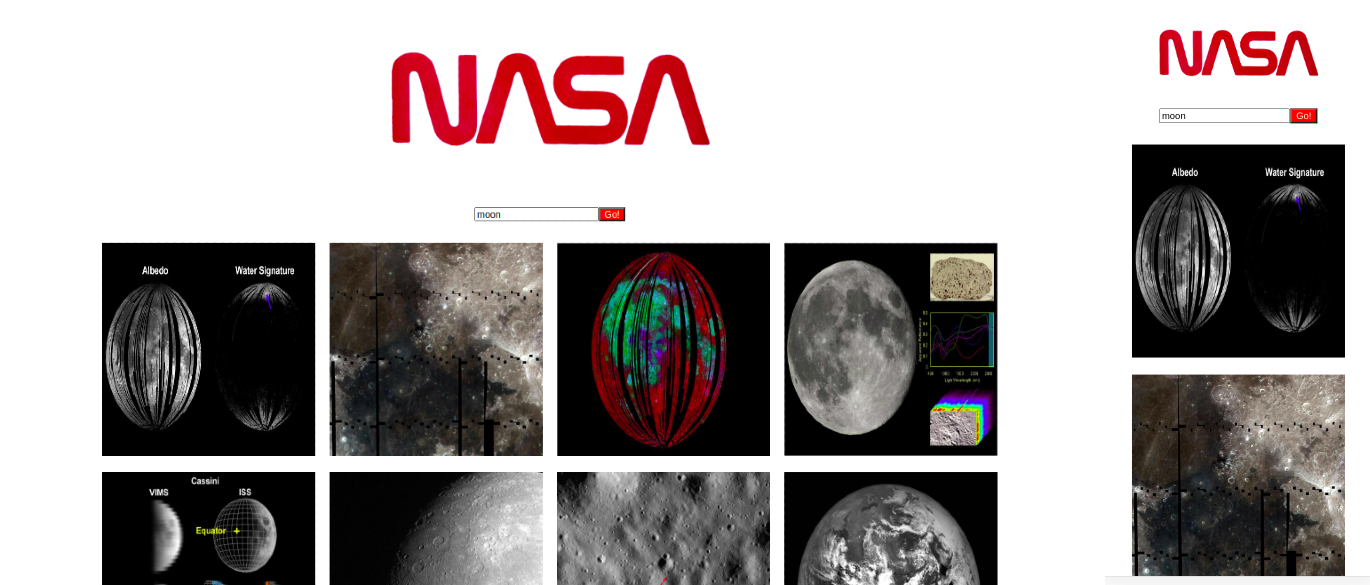
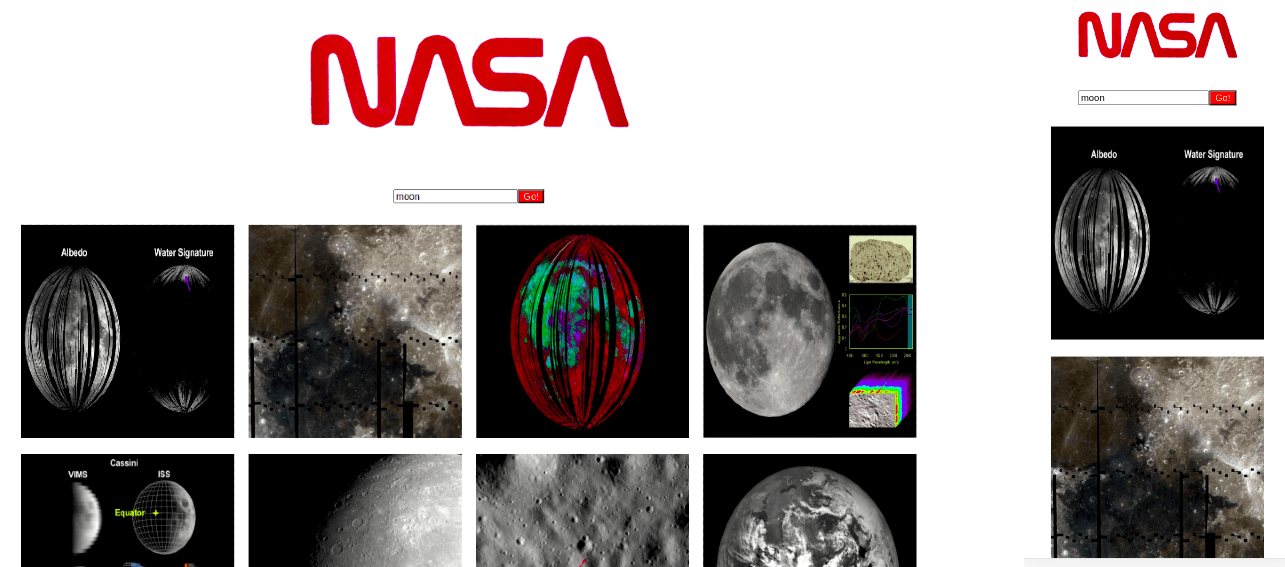
Modified README.md

diff --git a/README.md b/README.md
@@ -2,6 +2,8 @@
 
 This is a React web application that allows users to search for images based on a query relating to space.
 
+Below , you'll find a screenshot of the app rendering both in desktop and mobile.
+
 ![Screenshot](image.png)
 
 ### Techonologies
